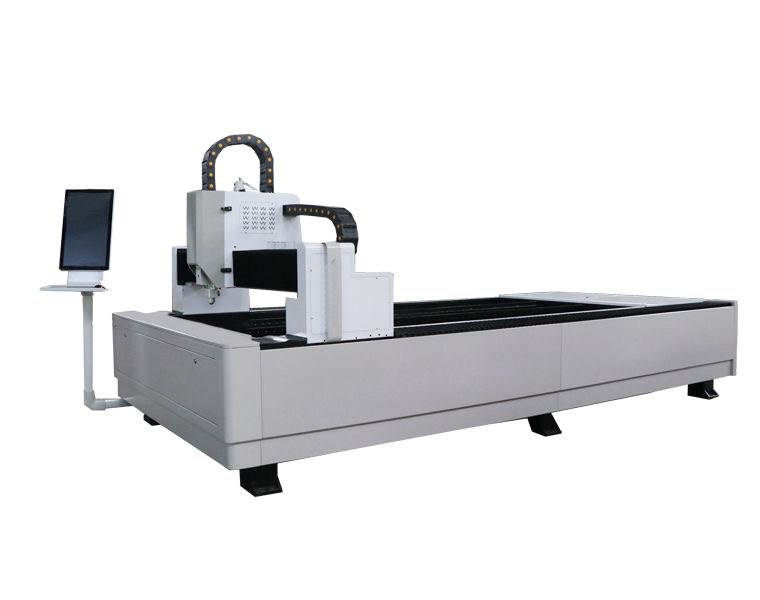
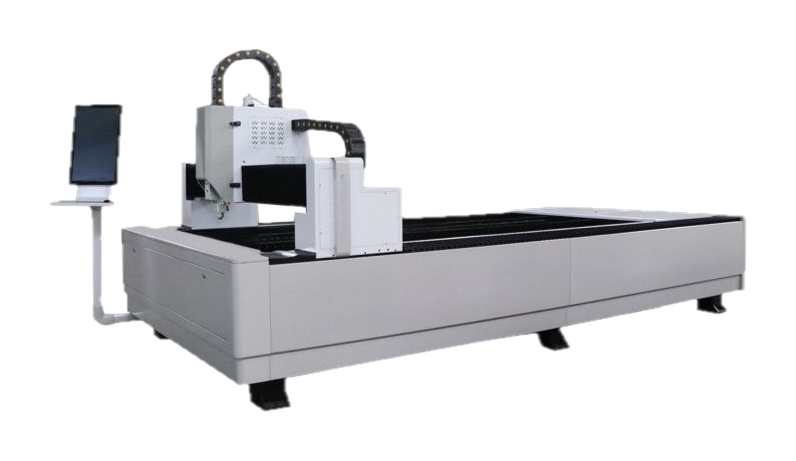
Фото товаров на белом фоне без надписей; единая раскраска фургона
- все фото товаров: товар вырезан и поставлен на чисто белый фон, убраны цех, градиент,
  рекламные плашки, линии-выноски и водяной знак Kufar
- фургон: один комплект полос (синяя + оранжевая) одинаковой ширины и на одной высоте
  на кабине, бортах и задних дверцах; убрана надпись manlaser.by, логотип по центру борта

Changed region(s): [[0.0605, 0.0911, 0.9684, 0.9111]]

diff --git a/src/js/scenes/truck/truck.js b/src/js/scenes/truck/truck.js
@@ -11,8 +11,10 @@ import { RoundedBoxGeometry } from 'three/addons/geometries/RoundedBoxGeometry.j
 const BOX = { x0: -3.65, x1: 0.95, y0: 1.1, y1: 3.55, w: 2.4 }; // кузов
 const WALL = 0.1;
 const GROUND_CLEARANCE = 0.52; // радиус колеса
+// Фирменные полосы — один комплект на кабине, бортах кузова и задних дверцах: та же ширина и та же высота (центр, м)
+const STRIPE = { blue: { y: 1.38, h: 0.09 }, orange: { y: 1.275, h: 0.03 } };
 
-/** Текстура-наклейка на борт кузова: брендовая полоса, логотип и подпись. */
+/** Текстура-наклейка на борт кузова: логотип и подпись (полосы — отдельной геометрией, см. STRIPE). */
 export function makeSideDecal(logoSvg) {
   const W = 2400;
   const H = 800;
@@ -26,29 +28,14 @@ export function makeSideDecal(logoSvg) {
 
   const draw = (logo) => {
     g.clearRect(0, 0, W, H);
-    // нижняя полоса: фирменный градиент
-    const grad = g.createLinearGradient(0, 0, W, 0);
-    grad.addColorStop(0, '#ffffff');
-    grad.addColorStop(0.3, '#87ceeb');
-    grad.addColorStop(0.62, '#007bff');
-    grad.addColorStop(1, '#e85002');
-    g.fillStyle = grad;
-    g.fillRect(0, 590, W, 92);
-    g.fillStyle = '#e85002';
-    g.fillRect(0, 700, W, 14);
-    g.fillStyle = '#007bff';
-    g.fillRect(0, 730, W * 0.62, 8);
-    // логотип и подпись
-    if (logo) g.drawImage(logo, 150, 150, 1330, 183);
+    // логотип и подпись — по центру наклейки
+    const lw = 1330;
+    if (logo) g.drawImage(logo, (W - lw) / 2, 150, lw, 183);
     g.fillStyle = '#2a3038';
     g.font = '600 76px "Nunito Variable", "Nunito", system-ui, sans-serif';
     g.textBaseline = 'alphabetic';
-    g.fillText('Лазерное оборудование CNMLaser', 156, 470);
-    g.fillStyle = '#007bff';
-    g.font = '800 92px "Unbounded Variable", "Unbounded", system-ui, sans-serif';
-    g.textAlign = 'right';
-    g.fillText('manlaser.by', W - 150, 330);
-    g.textAlign = 'left';
+    g.textAlign = 'center';
+    g.fillText('Лазерное оборудование CNMLaser', W / 2, 470);
     tex.needsUpdate = true;
   };
   draw(null);
@@ -158,14 +145,21 @@ export function buildTruck({ quality = 'high', logoSvg = '' } = {}) {
   // передняя стенка — только между бортами и между полом и крышей, без наложения на них
   add(rbox(WALL, boxH - 2 * (WALL - lip), BOX.w - 2 * WALL, 0.01), m.paint, BOX.x1 - WALL / 2, boxCy, 0);
 
-  // наклейки на бортах (брендовая полоса, логотип, подпись)
+  // фирменные полосы на бортах кузова (накладки отстоят от борта, чтобы не мерцать)
+  for (const s of [1, -1]) {
+    for (const { y, h, mat } of [{ ...STRIPE.blue, mat: m.blue }, { ...STRIPE.orange, mat: m.orange }]) {
+      add(new THREE.BoxGeometry(boxLen - 0.06, h, 0.012), mat, boxCx, y, s * (BOX.w / 2 + 0.006)).castShadow = false;
+    }
+  }
+
+  // наклейки на бортах (логотип и подпись)
   const decalTex = makeSideDecal(logoSvg);
   const decalMat = new THREE.MeshStandardMaterial({ map: decalTex, transparent: true, roughness: 0.4, metalness: 0.05, polygonOffset: true, polygonOffsetFactor: -2 });
   const decalW = 3.9;
   const decalH = decalW / 3;
   for (const s of [1, -1]) {
     const d = new THREE.Mesh(new THREE.PlaneGeometry(decalW, decalH), decalMat);
-    d.position.set(-1.05, BOX.y0 + decalH / 2 + 0.14, s * (BOX.w / 2 + 0.004));
+    d.position.set(boxCx, BOX.y0 + decalH / 2 + 0.14, s * (BOX.w / 2 + 0.004));
     if (s < 0) d.rotation.y = Math.PI;
     d.receiveShadow = true;
     group.add(d);
@@ -255,8 +249,8 @@ export function buildTruck({ quality = 'high', logoSvg = '' } = {}) {
     add(new THREE.BoxGeometry(0.02, 1.45, 0.012), m.dark, 1.28, 1.72, s * zFace); // шов двери (задний)
     add(new THREE.BoxGeometry(0.02, 1.45, 0.012), m.dark, 2.95, 1.55, s * zFace); // шов двери (передний)
     add(new THREE.BoxGeometry(0.2, 0.03, 0.04), m.metal, 1.45, 1.78, s * (zFace + 0.014)); // ручка
-    add(new THREE.BoxGeometry(2.1, 0.05, 0.012), m.blue, 2.2, 1.28, s * zFace); // полосы на кабине
-    add(new THREE.BoxGeometry(2.1, 0.02, 0.012), m.orange, 2.2, 1.2, s * zFace);
+    add(new THREE.BoxGeometry(2.24, STRIPE.blue.h, 0.012), m.blue, 2.25, STRIPE.blue.y, s * (zFace + 0.003)); // полосы на кабине: на 3 мм над швами дверей, чтобы не мерцали на пересечении
+    add(new THREE.BoxGeometry(2.24, STRIPE.orange.h, 0.012), m.orange, 2.25, STRIPE.orange.y, s * (zFace + 0.003));
     // зеркало
     add(new THREE.BoxGeometry(0.05, 0.05, 0.28), m.dark, 2.55, 2.45, s * 1.28);
     add(rbox(0.1, 0.44, 0.1, 0.03), m.dark, 2.55, 2.4, s * 1.43);
@@ -296,11 +290,12 @@ export function buildTruck({ quality = 'high', logoSvg = '' } = {}) {
     mesh.receiveShadow = true;
     pivot.add(mesh);
     // наружная отделка двери: полоса и ручка-запор
-    const stripe = new THREE.Mesh(new THREE.BoxGeometry(0.012, 0.09, doorW - 0.1), m.blue);
-    stripe.position.set(-doorThick / 2 - 0.004, -boxH / 2 + 0.55, -s * (doorW / 2));
+    // полосы на той же высоте, что на бортах и кабине (pivot стоит на высоте boxCy)
+    const stripe = new THREE.Mesh(new THREE.BoxGeometry(0.012, STRIPE.blue.h, doorW - 0.1), m.blue);
+    stripe.position.set(-doorThick / 2 - 0.004, STRIPE.blue.y - boxCy, -s * (doorW / 2));
     pivot.add(stripe);
-    const stripe2 = new THREE.Mesh(new THREE.BoxGeometry(0.012, 0.03, doorW - 0.1), m.orange);
-    stripe2.position.set(-doorThick / 2 - 0.004, -boxH / 2 + 0.43, -s * (doorW / 2));
+    const stripe2 = new THREE.Mesh(new THREE.BoxGeometry(0.012, STRIPE.orange.h, doorW - 0.1), m.orange);
+    stripe2.position.set(-doorThick / 2 - 0.004, STRIPE.orange.y - boxCy, -s * (doorW / 2));
     pivot.add(stripe2);
     const handle = new THREE.Mesh(new THREE.CylinderGeometry(0.022, 0.022, 1.0, 10), m.metal);
     handle.position.set(-doorThick / 2 - 0.04, 0, -s * (doorW - 0.12));

diff --git a/AGENTS.md b/AGENTS.md
@@ -37,7 +37,7 @@
 
 - Viber и WhatsApp в `site.json → contacts.main` — номер `+375 44 768-76-77`, основной телефон — `+375 29 288-27-72`; так же и на действующем manlaser.by (проверено 30.10.2026).
 - Гарантия на станки резки (2 года или 1 год) и на источники Raycus (24 месяца) — расхождения в источниках, помечены `⚠`.
-- Фото товаров взяты с действующего manlaser.by (главное фото каждой модели, у некоторых моделей одно общее фото); на фото MAN 3000 — водяной знак Kufar. У станка с труборезным модулем на старом сайте нет характеристик и функциональности — вкладки скрыты.
+- Фото товаров взяты с действующего manlaser.by (главное фото каждой модели, у некоторых моделей одно общее фото). По просьбе владельца (03.11.2026) все переведены на белый фон без надписей: товар вырезан выделением объекта macOS (Vision), рекламные плашки, выноски и водяной знак Kufar убраны. У MAN C01–C03, F01–F03 исходники маленькие (~400–650 px) — нужны фото получше. У станка с труборезным модулем на старом сайте нет характеристик и функциональности — вкладки скрыты.
 - Нужны реквизиты юрлица, политика конфиденциальности (ссылка в форме).
 - Статья блога про лазер и пескоструй — черновик (`draft: true`, `noindex`).
 
@@ -136,7 +136,7 @@ content/blog/*.md┘                                                            
 - Данные: `content/equipment.json` — `categories`, `products` (`slug`, `category`, `name`, `type`, `power`, `price`, `stock`, `warranty`, `media`, `url` — адрес `/oborudovanie/<slug>/`, `description`, `specs` — пары «название — значение», `functions` — блоки `{p}`, `{h}`, `{list}`, `sourceUrl` — страница старого сайта, откуда взяты данные), `advantages`, `counters`, `industries`, `intro`. Страницы товаров, карточки и пункты формы строятся из него автоматически.
 - Описание, характеристики, функциональность, цены и наличие перенесены с действующего manlaser.by (30.10.2026). На странице товара — вкладки «Описание · Характеристики · Функциональность» (`productTabs` в `pages/equipment.js`, скрипт `src/js/pages/product.js`); пустые вкладки не выводятся.
 - Наличие: «в наличии» и «в наличии / под заказ» считаются наличием (`isInStock` в `components.js`); блок «В наличии сейчас» на главной показывает только строго «в наличии».
-- Фото товаров — `public/images/equipment/*.jpg` (сжаты `sips`, без увеличения; WebP-конвертер в окружении недоступен), ключи `product.*` и `eq.cat-*` в `media.json`. Карточка и страница товара показывают фото целиком на белой подложке (`.media--product`).
+- Фото товаров — `public/images/equipment/*.jpg`: товар на чисто белом фоне, без надписей, JPG не больше 1200 px (сжаты `sips`, без увеличения; WebP-конвертер в окружении недоступен), ключи `product.*` и `eq.cat-*` в `media.json`. Карточка и страница товара показывают фото целиком на белой подложке (`.media--product`).
 - Цена в `price` — строка как на старом сайте; Schema.org `Offer` строится, только если в ней есть «BYN».
 - Кнопки «Запросить цену» ведут на `/zapros/?product=<slug>` (для ремонта — `product=repair`).
 
